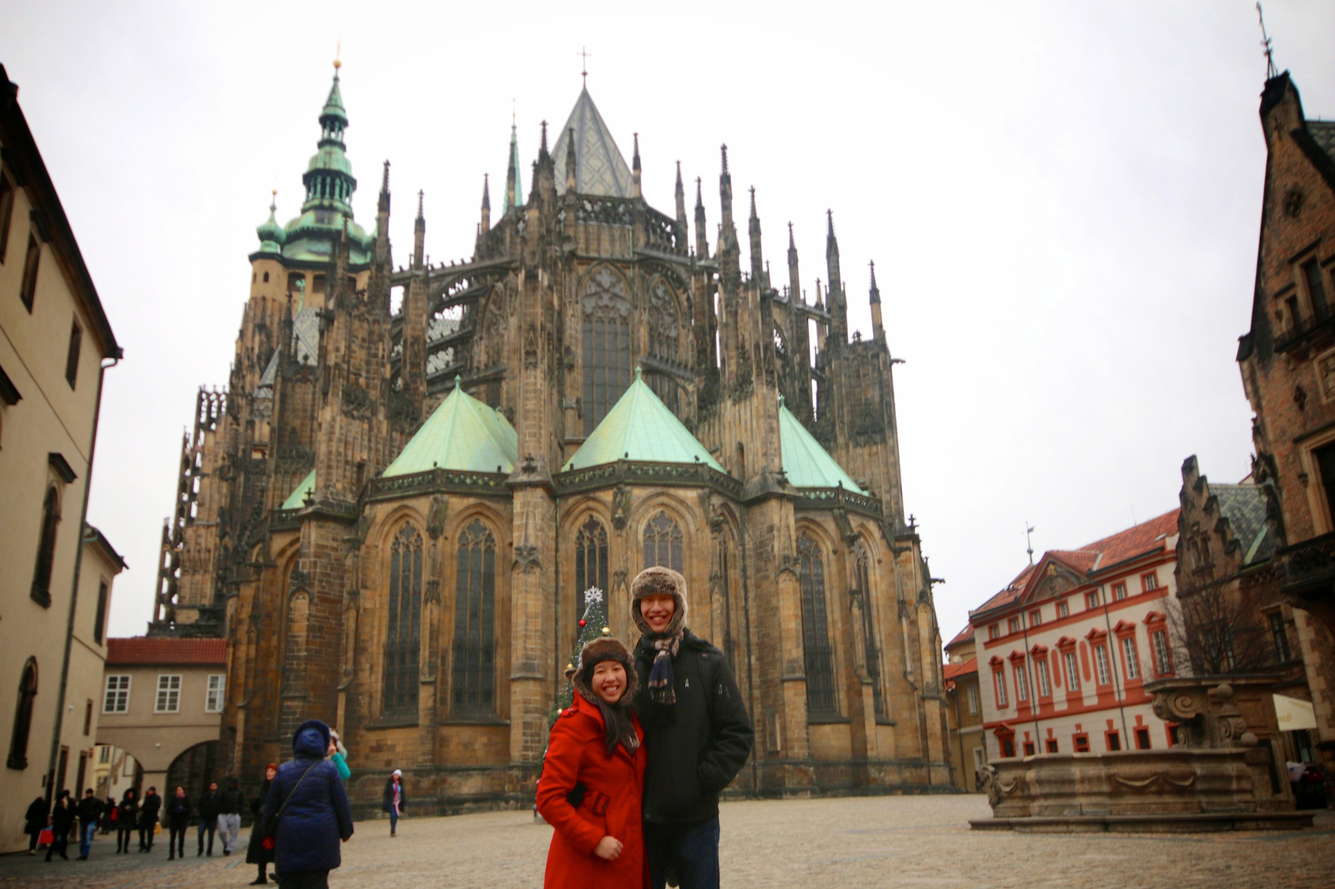
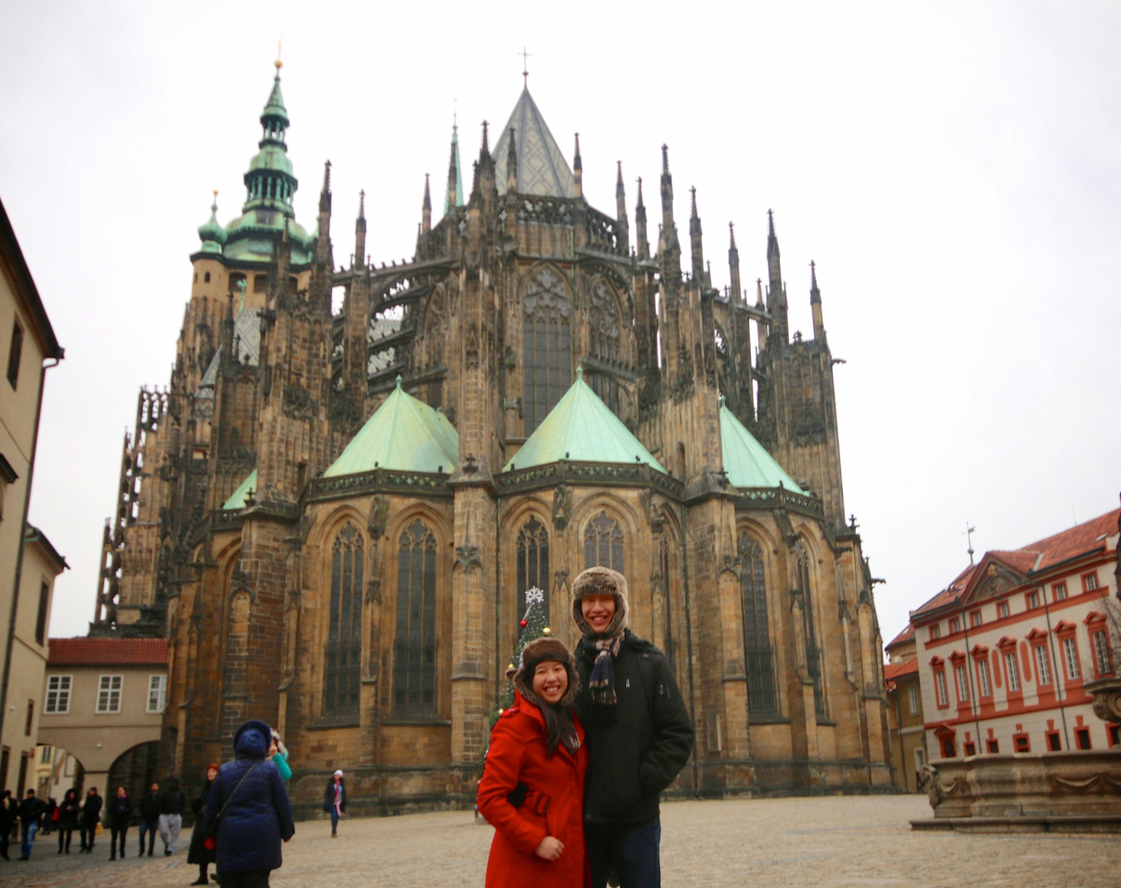
prague picture instead plus some minor spacing adjustments between story and wedding

diff --git a/index.html b/index.html
@@ -81,8 +81,8 @@
             </section>
             <section class="feature right">
               <span href="#" class="dimage story-gallery">
-                <a href="images/vancouver.jpg"><img src="images/vancouver.jpg" />
-                <span class="img-caption">Tandem bicycling in Vancouver.</span></a>
+                <a href="images/prague.jpg"><img src="images/prague.jpg" />
+                <span class="img-caption">St. Vitus Cathedral in Prague, Czech Republic.</span></a>
               </span>
               <div class="dcontent">
                 <h3 class="major">Courtship</h3>
@@ -92,7 +92,7 @@
             <section class="feature left">
               <span href="#" class="dimage story-gallery">
                 <a href="images/proposal.jpg"><img src="images/proposal.jpg" />
-                <span class="img-caption">The proposal on Table Mountain, South Africa.</span></a>
+                <span class="img-caption">The proposal on Table Mountain in Cape Town, South Africa.</span></a>
               </span>
               <div class="dcontent">
                 <h3 class="major">The Proposal</h3>

diff --git a/assets/css/main.css b/assets/css/main.css
@@ -489,7 +489,10 @@ Oxygen Blue:
 .box {
 	background: #ffffff;
 	border: solid 1px rgba(224, 224, 224, 0.75);
+  /*
 	margin-bottom: 6em;
+  */
+  margin-bottom: 3em;
 	padding: 3.5em;
 }
 
